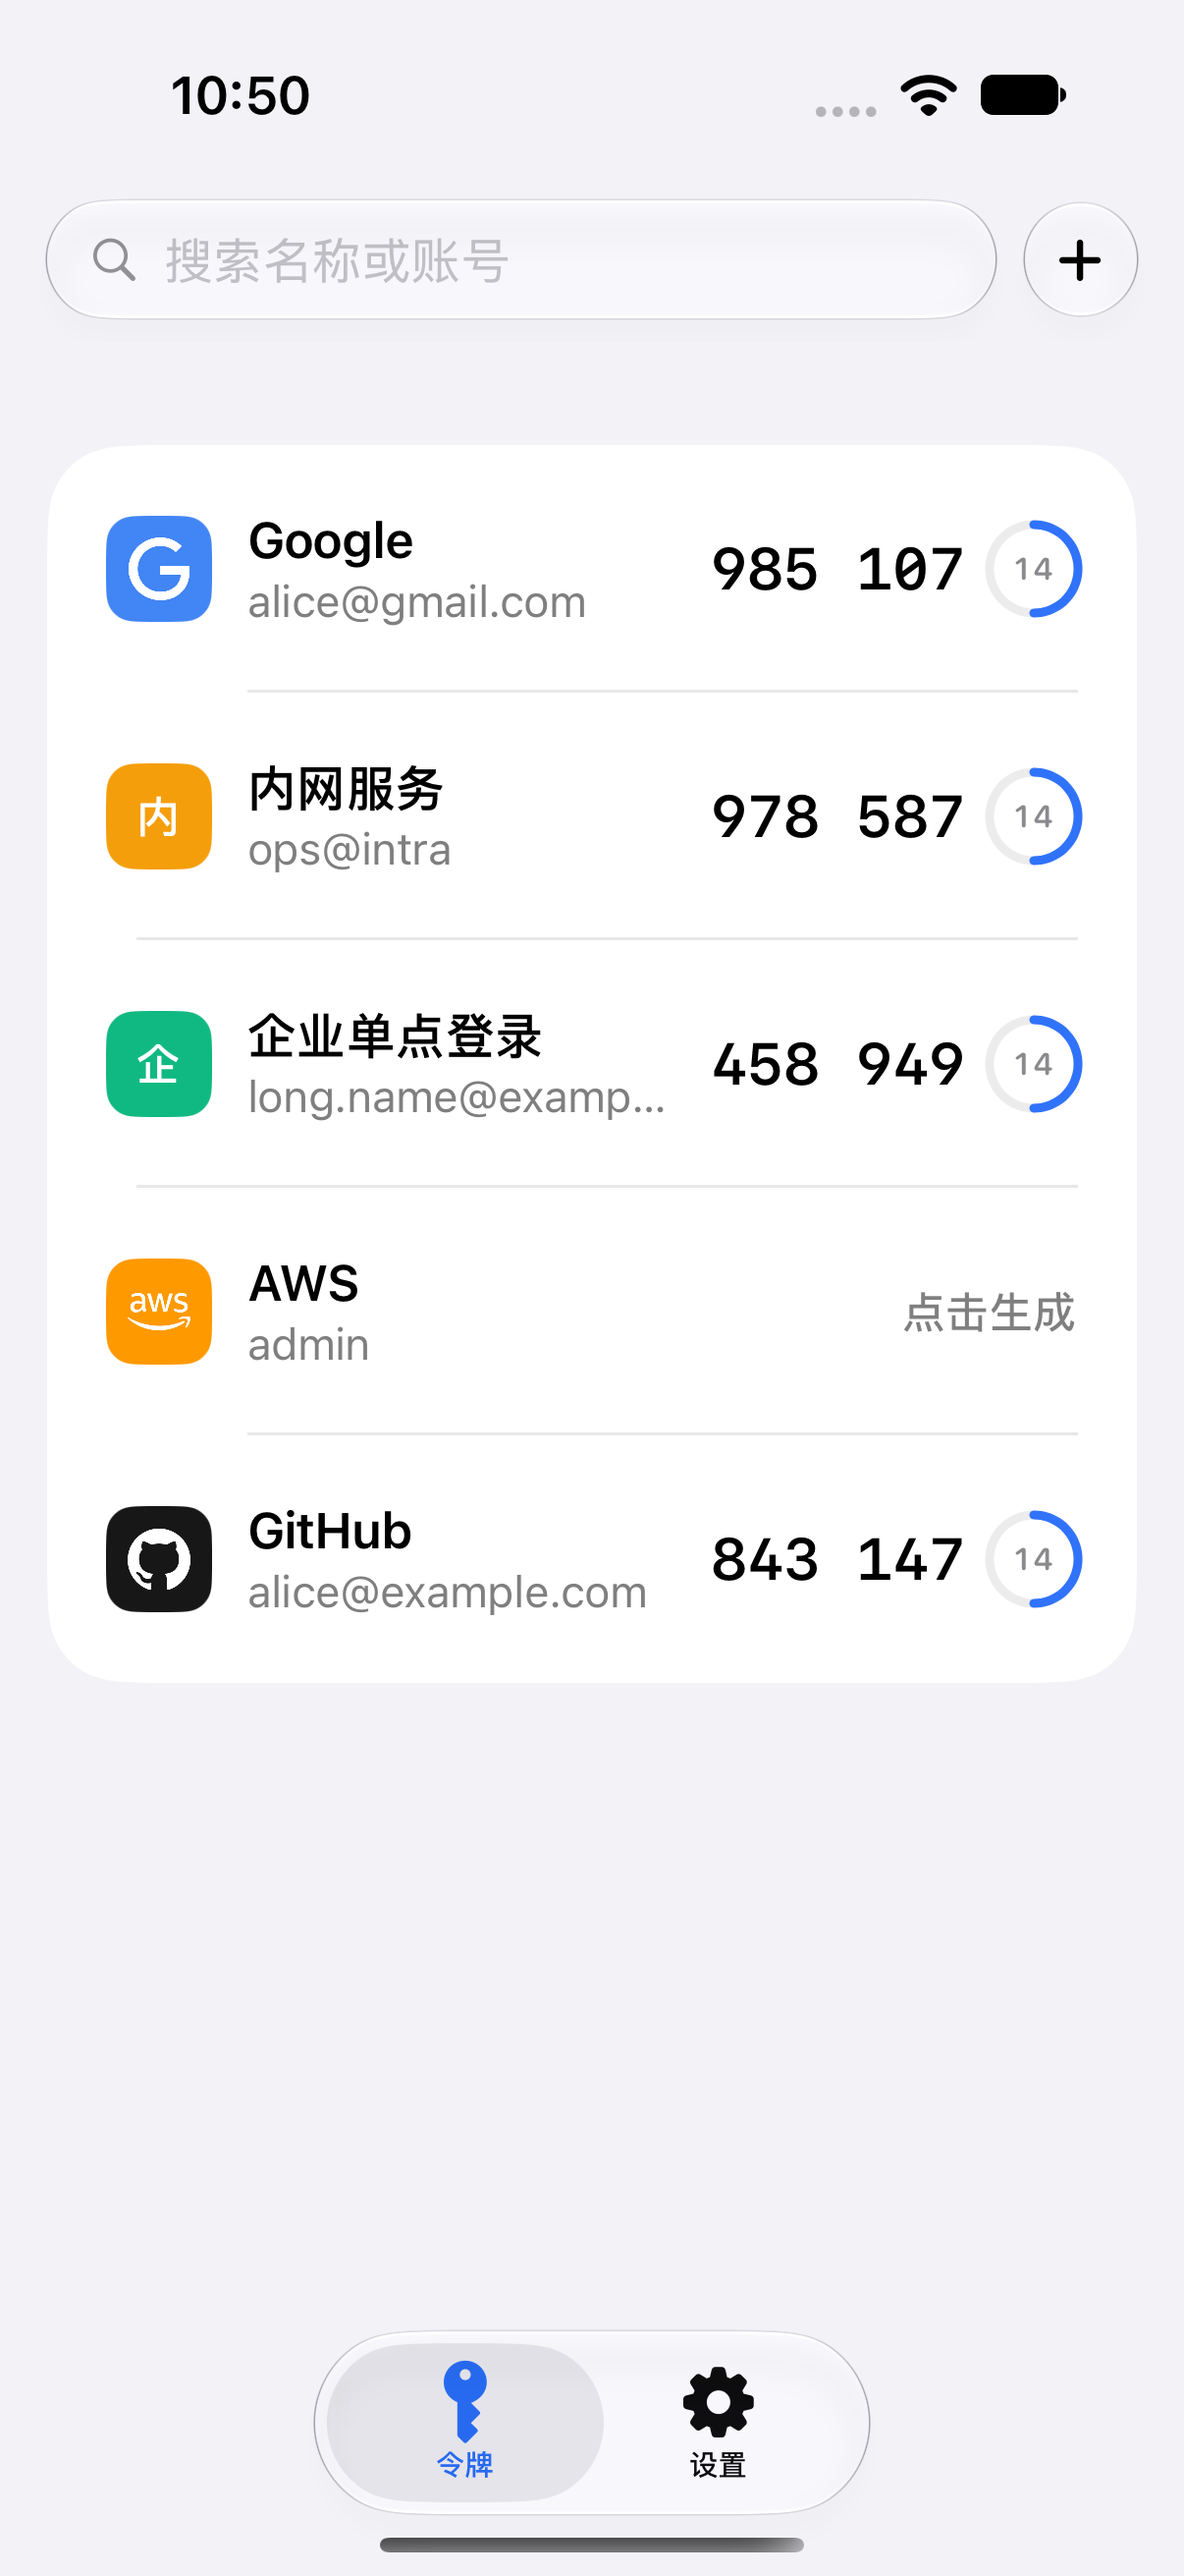
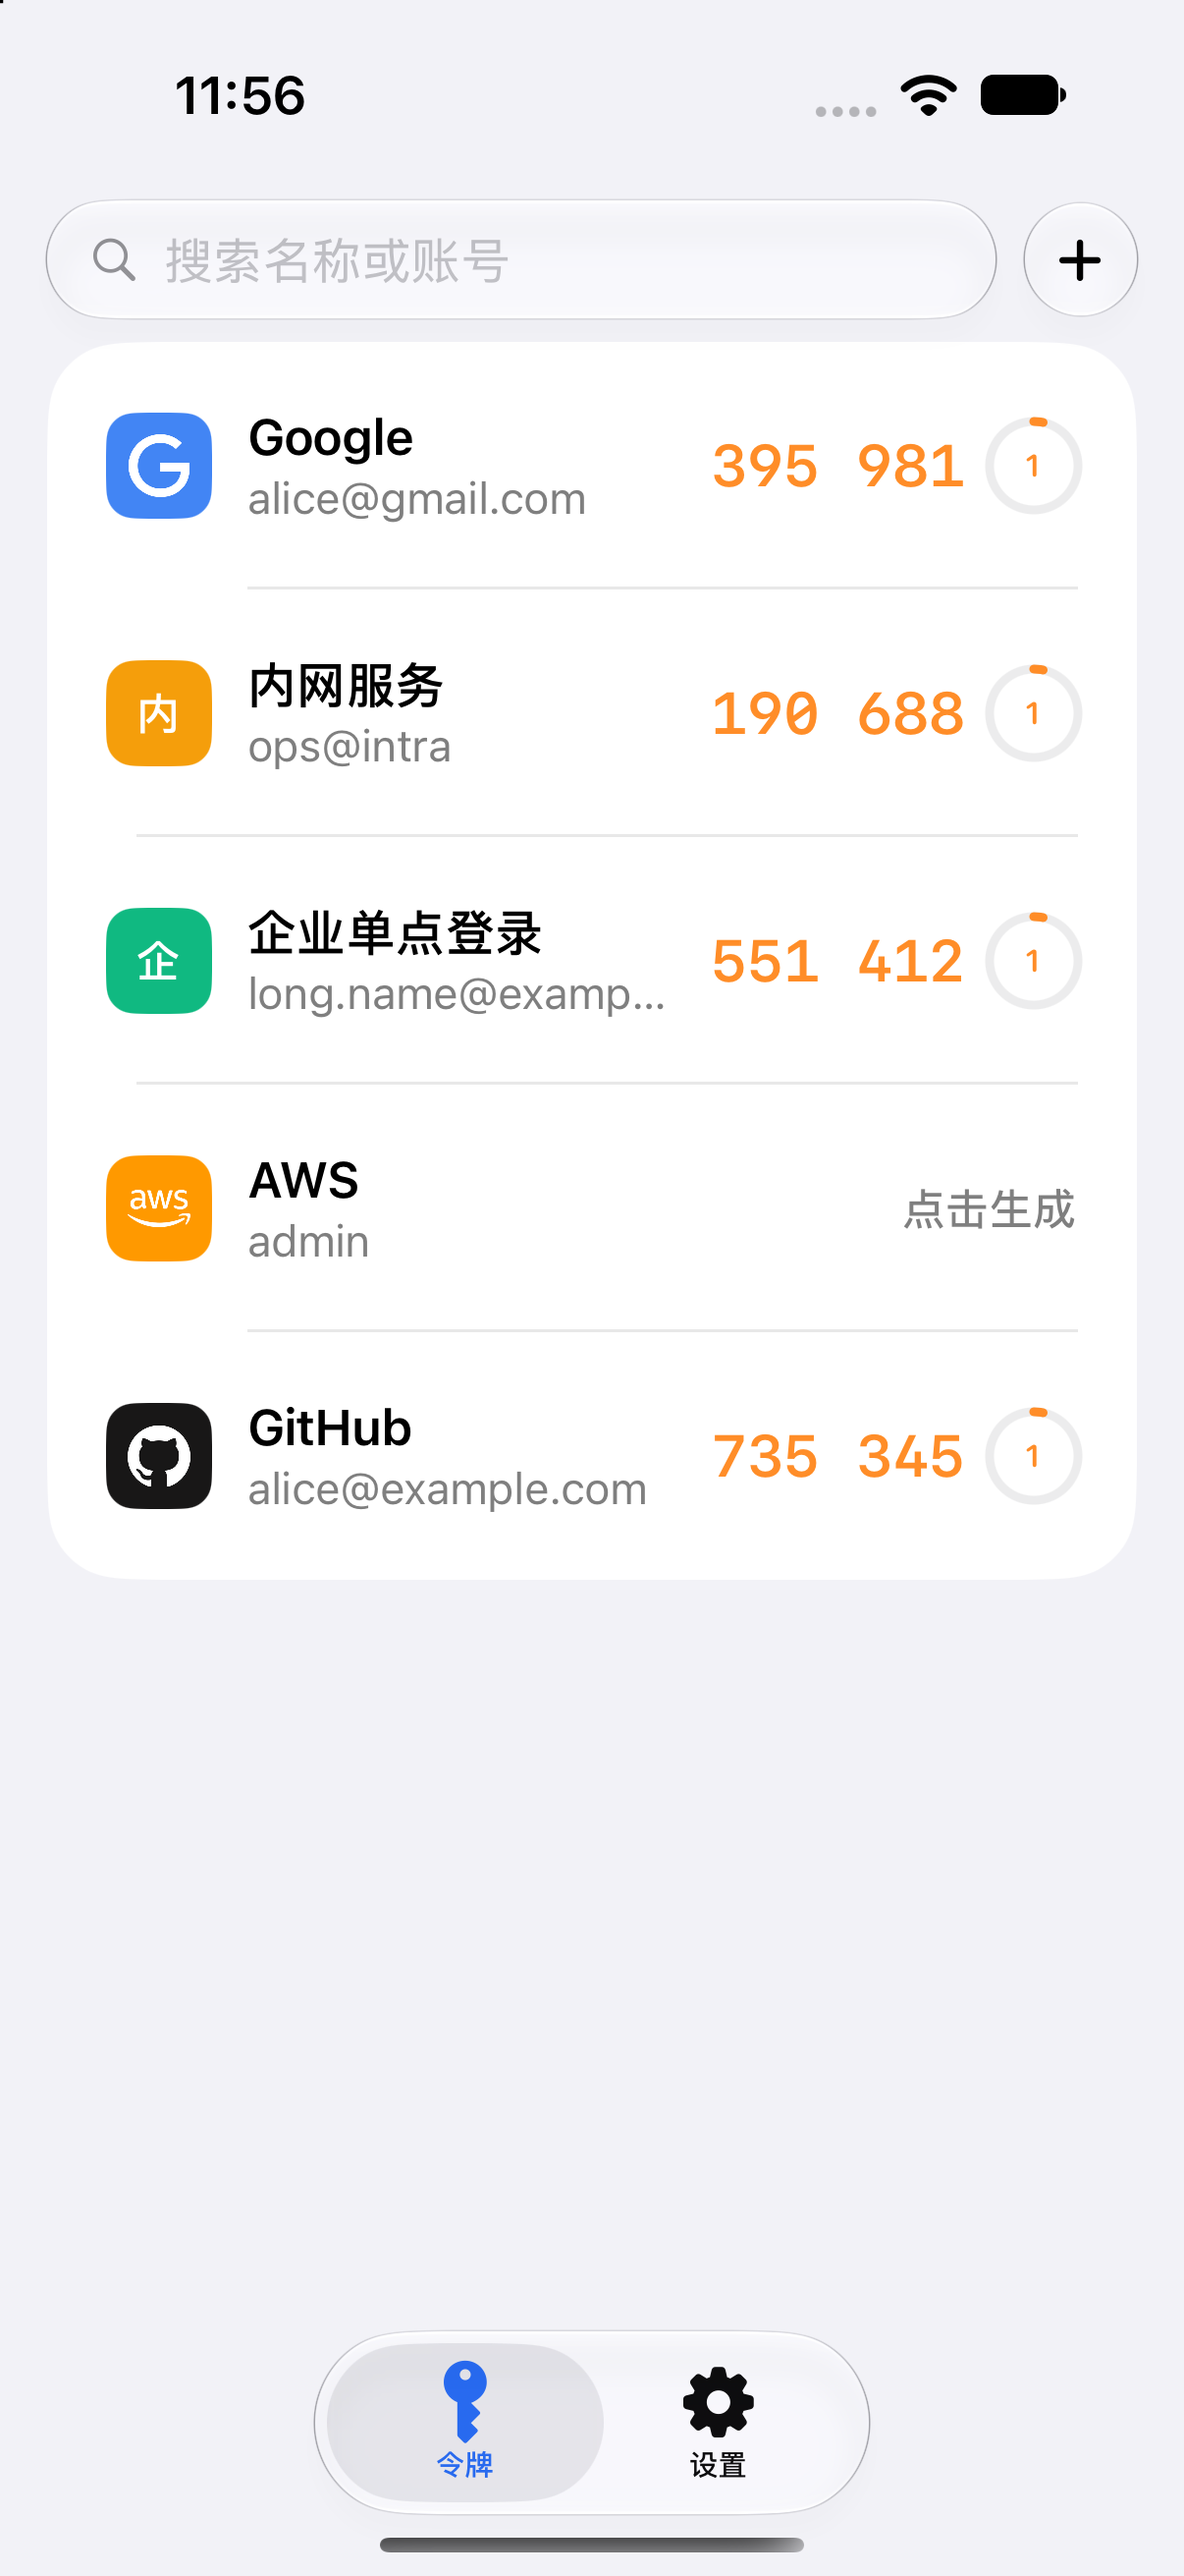
Float search bar over token list without its own background band

diff --git a/OTP/Features/Tokens/TokenListView.swift b/OTP/Features/Tokens/TokenListView.swift
@@ -9,26 +9,11 @@ struct TokenListView: View {
     @State private var qrToken: OTPToken?
 
     var body: some View {
-        VStack(spacing: 0) {
-            HStack(spacing: 10) {
-                SearchField(text: $model.searchText)
-
-                Button(action: onRequestAdd) {
-                    Image(systemName: "plus")
-                        .font(.system(size: 17, weight: .semibold))
-                        .frame(width: 38, height: 38)
-                        .modifier(GlassCircleBackground())
-                        .contentShape(Circle())
-                }
-                .buttonStyle(.plain)
-                .accessibilityLabel("添加令牌")
-                .accessibilityIdentifier("tokens.add")
-            }
-            .padding(.horizontal, 16)
-            .padding(.top, 6)
-            .padding(.bottom, 8)
-
+        ZStack(alignment: .top) {
             content
+
+            searchBar
+                .zIndex(1)
         }
         .background(Color(.systemGroupedBackground))
         .sheet(item: $editingToken) { token in
@@ -63,6 +48,25 @@ struct TokenListView: View {
             Text(model.errorMessage ?? "")
         }
         .sensoryFeedback(.success, trigger: model.copySignal)
+    }
+
+    private var searchBar: some View {
+        HStack(spacing: 10) {
+            SearchField(text: $model.searchText)
+
+            Button(action: onRequestAdd) {
+                Image(systemName: "plus")
+                    .font(.system(size: 17, weight: .semibold))
+                    .frame(width: 38, height: 38)
+                    .modifier(GlassCircleBackground())
+                    .contentShape(Circle())
+            }
+            .buttonStyle(.plain)
+            .accessibilityLabel("添加令牌")
+            .accessibilityIdentifier("tokens.add")
+        }
+        .padding(.horizontal, 16)
+        .padding(.top, 6)
     }
 
     @ViewBuilder
@@ -138,6 +142,7 @@ struct TokenListView: View {
             }
         }
         .listStyle(.insetGrouped)
+        .contentMargins(.top, 54, for: .scrollContent)
         .scrollDismissesKeyboard(.immediately)
         .refreshable { await model.refresh() }
     }
@@ -160,6 +165,7 @@ struct TokenListView: View {
             Spacer()
         }
         .frame(maxWidth: .infinity)
+        .padding(.top, 54)
     }
 
     private var emptyState: some View {
@@ -176,5 +182,6 @@ struct TokenListView: View {
             Spacer()
         }
         .frame(maxWidth: .infinity)
+        .padding(.top, 54)
     }
 }
